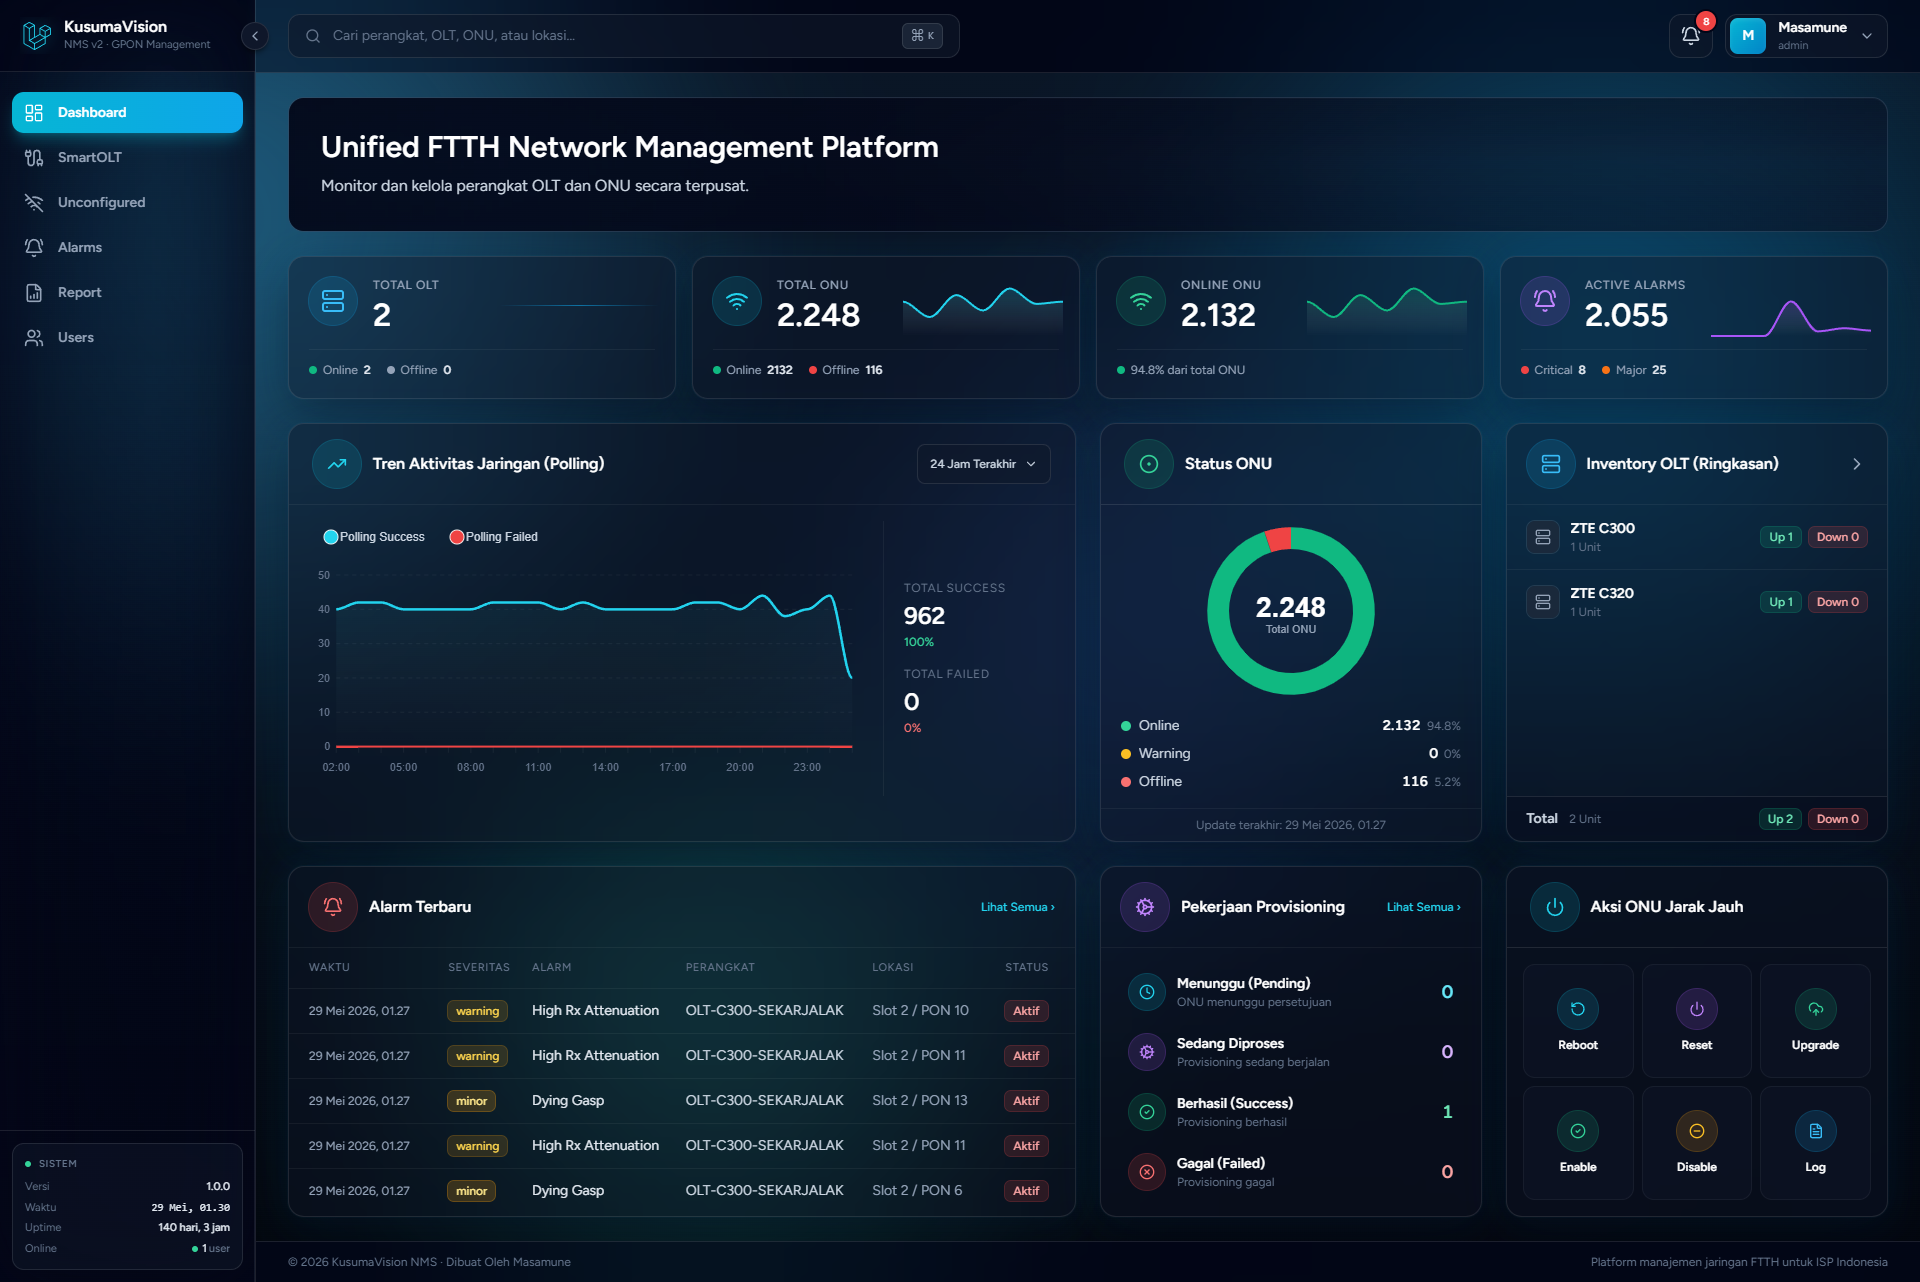
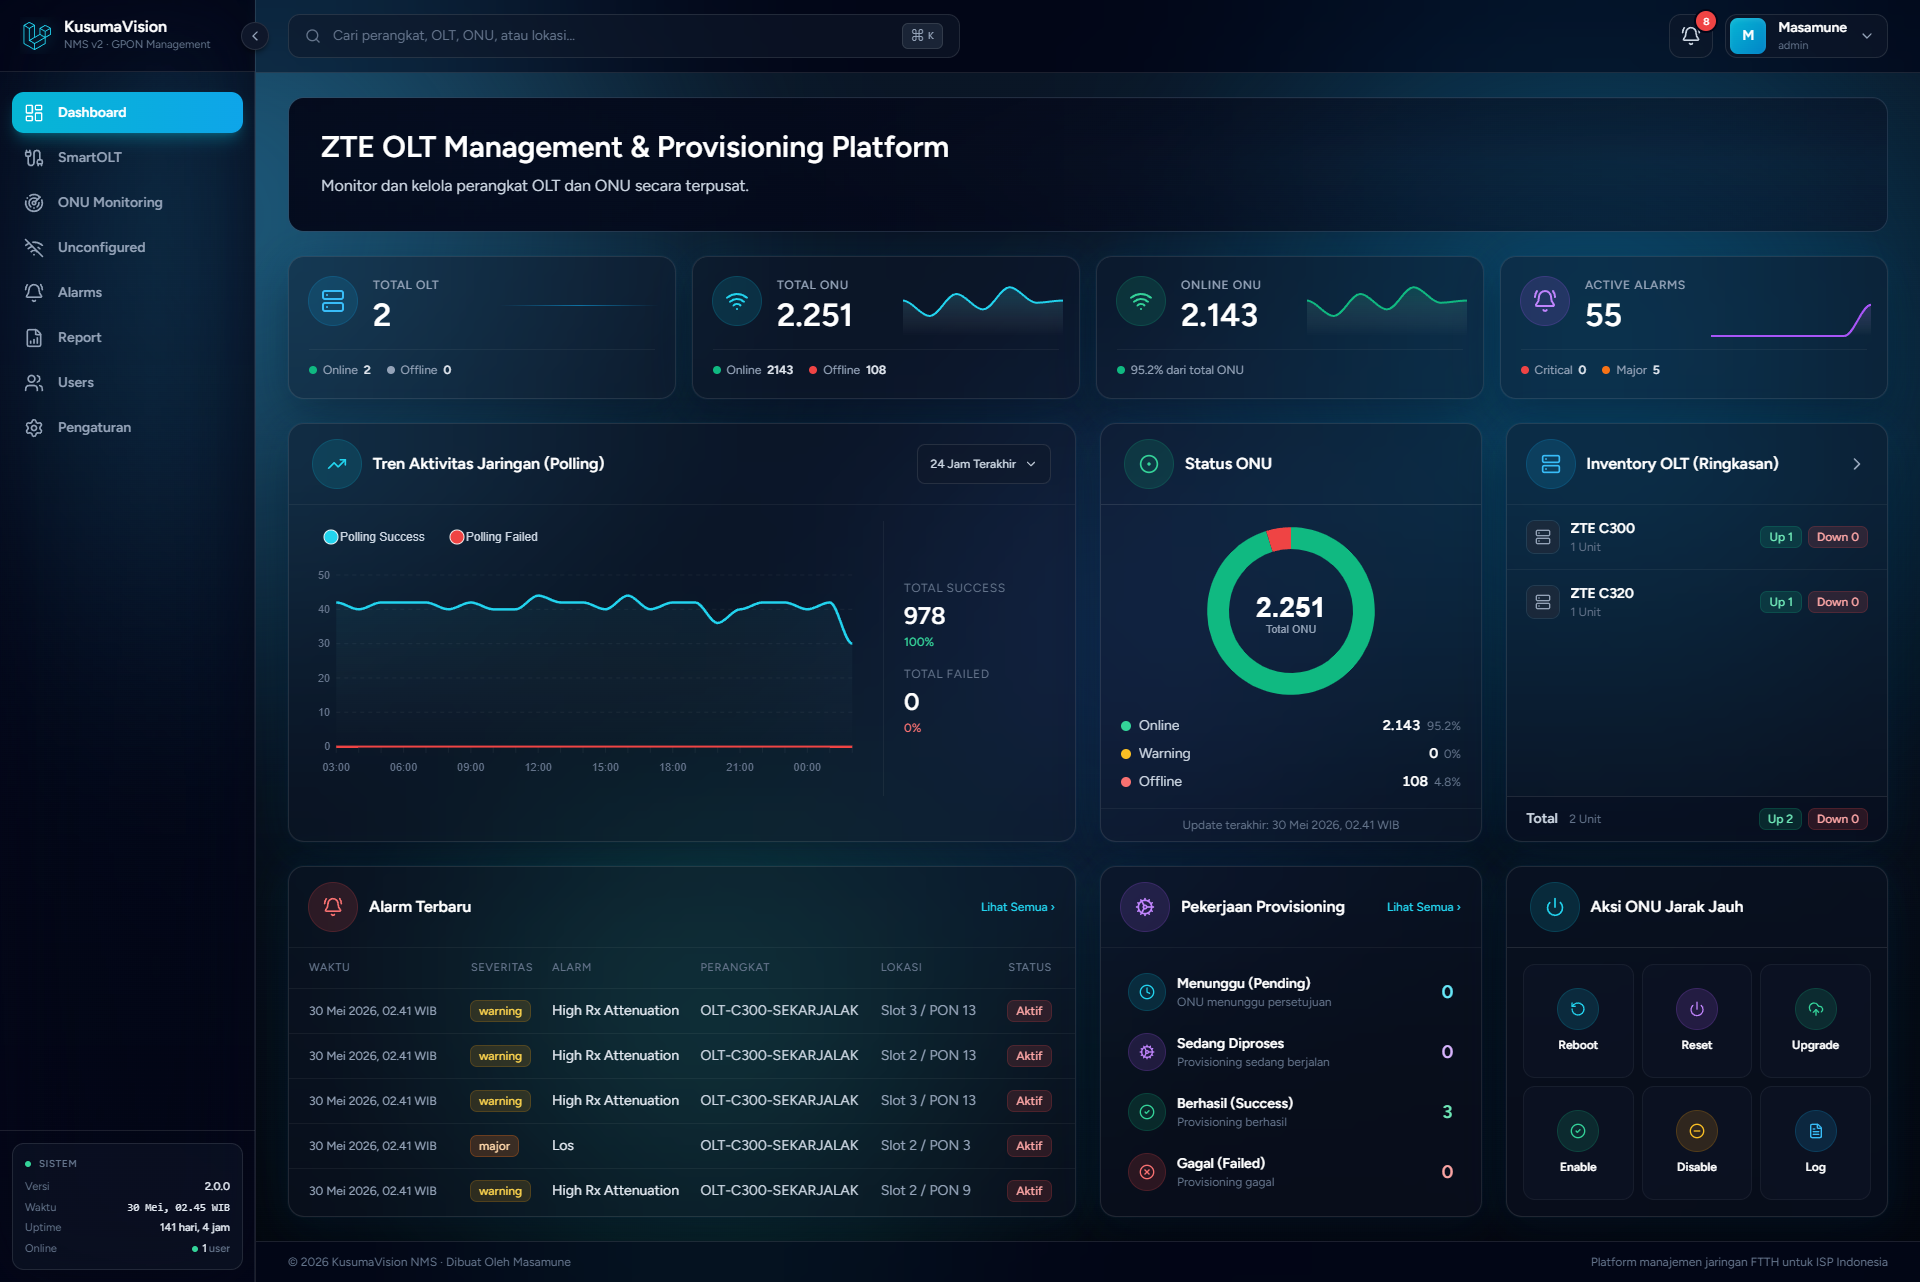
ui: finalize landing copy, disable PPPoE autofill, add landing screenshots

diff --git a/resources/js/Pages/SmartOlt/ConfigureOnu.vue b/resources/js/Pages/SmartOlt/ConfigureOnu.vue
@@ -433,12 +433,12 @@ const fieldClass = 'mt-1 block w-full rounded-md border-white/10 bg-slate-950/40
                                 <div v-if="cfg.wan_mode === 'pppoe'" class="grid gap-5 md:grid-cols-2">
                                     <div>
                                         <InputLabel for="pppoe_username" value="PPPoE Username" />
-                                        <TextInput id="pppoe_username" v-model="cfg.pppoe_username" class="mt-1 block w-full" />
+                                        <TextInput id="pppoe_username" v-model="cfg.pppoe_username" class="mt-1 block w-full" autocomplete="off" data-1p-ignore data-lpignore="true" />
                                     </div>
                                     <div>
                                         <InputLabel for="pppoe_password" value="PPPoE Password" />
                                         <div class="relative mt-1">
-                                            <TextInput id="pppoe_password" v-model="cfg.pppoe_password" :type="showPppoe ? 'text' : 'password'" class="block w-full pr-10" placeholder="••••••••" />
+                                            <TextInput id="pppoe_password" v-model="cfg.pppoe_password" :type="showPppoe ? 'text' : 'password'" class="block w-full pr-10" placeholder="••••••••" autocomplete="new-password" data-1p-ignore data-lpignore="true" />
                                             <button type="button" class="absolute inset-y-0 right-0 flex items-center px-3 text-slate-400 hover:text-white" @click="showPppoe = !showPppoe">
                                                 <EyeOff v-if="showPppoe" class="h-4 w-4" /><Eye v-else class="h-4 w-4" />
                                             </button>

diff --git a/resources/js/Pages/SmartOlt/RegisterOnu.vue b/resources/js/Pages/SmartOlt/RegisterOnu.vue
@@ -205,12 +205,12 @@ const submit = () => {
                             <div v-if="form.wan_mode === 'pppoe'" class="grid gap-5 md:grid-cols-2">
                                 <div>
                                     <InputLabel for="pppoe_username" value="PPPoE Username" />
-                                    <TextInput id="pppoe_username" v-model="form.pppoe_username" class="mt-1 block w-full" />
+                                    <TextInput id="pppoe_username" v-model="form.pppoe_username" class="mt-1 block w-full" autocomplete="off" data-1p-ignore data-lpignore="true" />
                                     <InputError class="mt-1.5" :message="form.errors.pppoe_username" />
                                 </div>
                                 <div>
                                     <InputLabel for="pppoe_password" value="PPPoE Password" />
-                                    <TextInput id="pppoe_password" v-model="form.pppoe_password" class="mt-1 block w-full" type="password" />
+                                    <TextInput id="pppoe_password" v-model="form.pppoe_password" class="mt-1 block w-full" type="password" autocomplete="new-password" data-1p-ignore data-lpignore="true" />
                                     <InputError class="mt-1.5" :message="form.errors.pppoe_password" />
                                 </div>
                             </div>

diff --git a/resources/js/Pages/Welcome.vue b/resources/js/Pages/Welcome.vue
@@ -273,7 +273,7 @@ const supportLinks = [
                             data-aos="fade-up"
                             data-aos-delay="80"
                         >
-                            Unified <span class="bg-gradient-to-r from-cyan-400 to-sky-500 bg-clip-text text-transparent">FTTH Network</span> Management Platform
+                            ZTE <span class="bg-gradient-to-r from-cyan-400 to-sky-500 bg-clip-text text-transparent">OLT Management</span> &amp; Provisioning Platform
                         </h1>
                         <p
                             class="mt-5 max-w-xl text-base leading-7 text-slate-400 sm:text-lg"
@@ -582,7 +582,7 @@ const supportLinks = [
 
                 <div class="mt-10 flex flex-col items-center justify-between gap-3 border-t border-white/10 pt-6 text-xs text-slate-500 sm:flex-row">
                     <p>&copy; 2026 KusumaVision NMS &middot; Dibuat oleh Masamune</p>
-                    <p>FTTH Network Management Platform</p>
+                    <p>ZTE OLT Management &amp; Provisioning Platform</p>
                 </div>
             </div>
         </footer>

diff --git a/WORKLOG.md b/WORKLOG.md
@@ -1023,3 +1023,16 @@ Notes (perubahan ini di tingkat sistem/server, di luar git — didokumentasikan 
 Changed:
 
 - `resources/js/Components/Dashboard/HeroBanner.vue`, `resources/js/Layouts/GuestLayout.vue`, `resources/js/Pages/Welcome.vue` — ganti tagline/subjudul/title tab jadi "ZTE OLT Management & Provisioning Platform" (lebih sesuai scope ZTE GPON). Frontend di-rebuild (`npm run build`).
+
+### Hero/footer landing teks lengkap + matikan autofill PPPoE
+
+Changed:
+
+- `resources/js/Pages/Welcome.vue` — H1 hero (yang sebelumnya terpecah jadi span: "Unified" / "FTTH Network" / "Management Platform") & teks footer diganti ke "ZTE OLT Management & Provisioning Platform"; aksen gradient kini di "OLT Management".
+- `resources/js/Pages/SmartOlt/ConfigureOnu.vue`, `resources/js/Pages/SmartOlt/RegisterOnu.vue` — input WAN PPPoE: tambah `autocomplete="off"` (username) & `autocomplete="new-password"` (password) + `data-1p-ignore`/`data-lpignore` agar browser/password-manager tidak auto-fill kredensial Google ke field PPPoE.
+- `public/img/dashboard1.png` (diperbarui) + `public/img/{detail,login,oltinventory,unconfigured}.png` (baru) — aset screenshot landing disediakan user.
+
+Notes:
+
+- Tulisan di dalam mockup dashboard hero adalah gambar (`/img/dashboard1.png`), bukan teks HTML — diganti dengan mengganti file PNG, bukan kode.
+- `TextInput.vue` meneruskan `$attrs` ke `<input>`, jadi atribut `autocomplete`/`data-*` cukup ditaruh di pemakaian komponen. Frontend di-rebuild (`npm run build`).